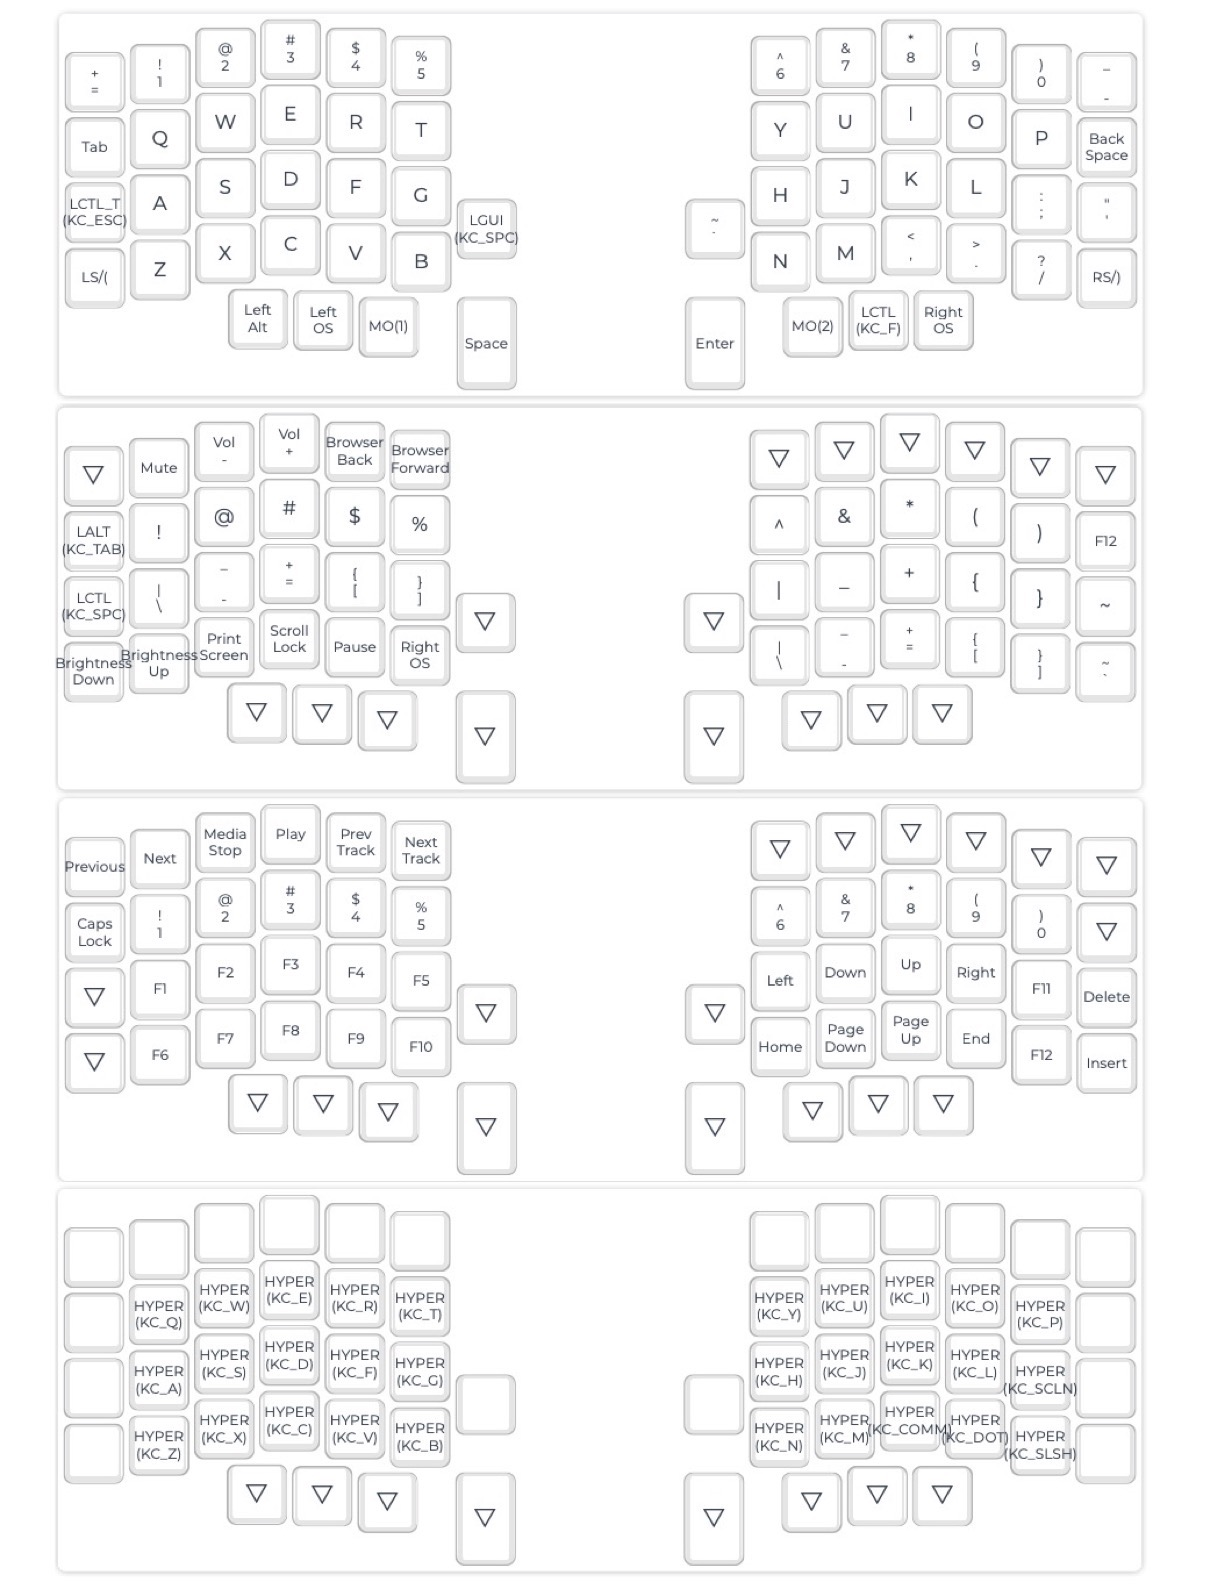
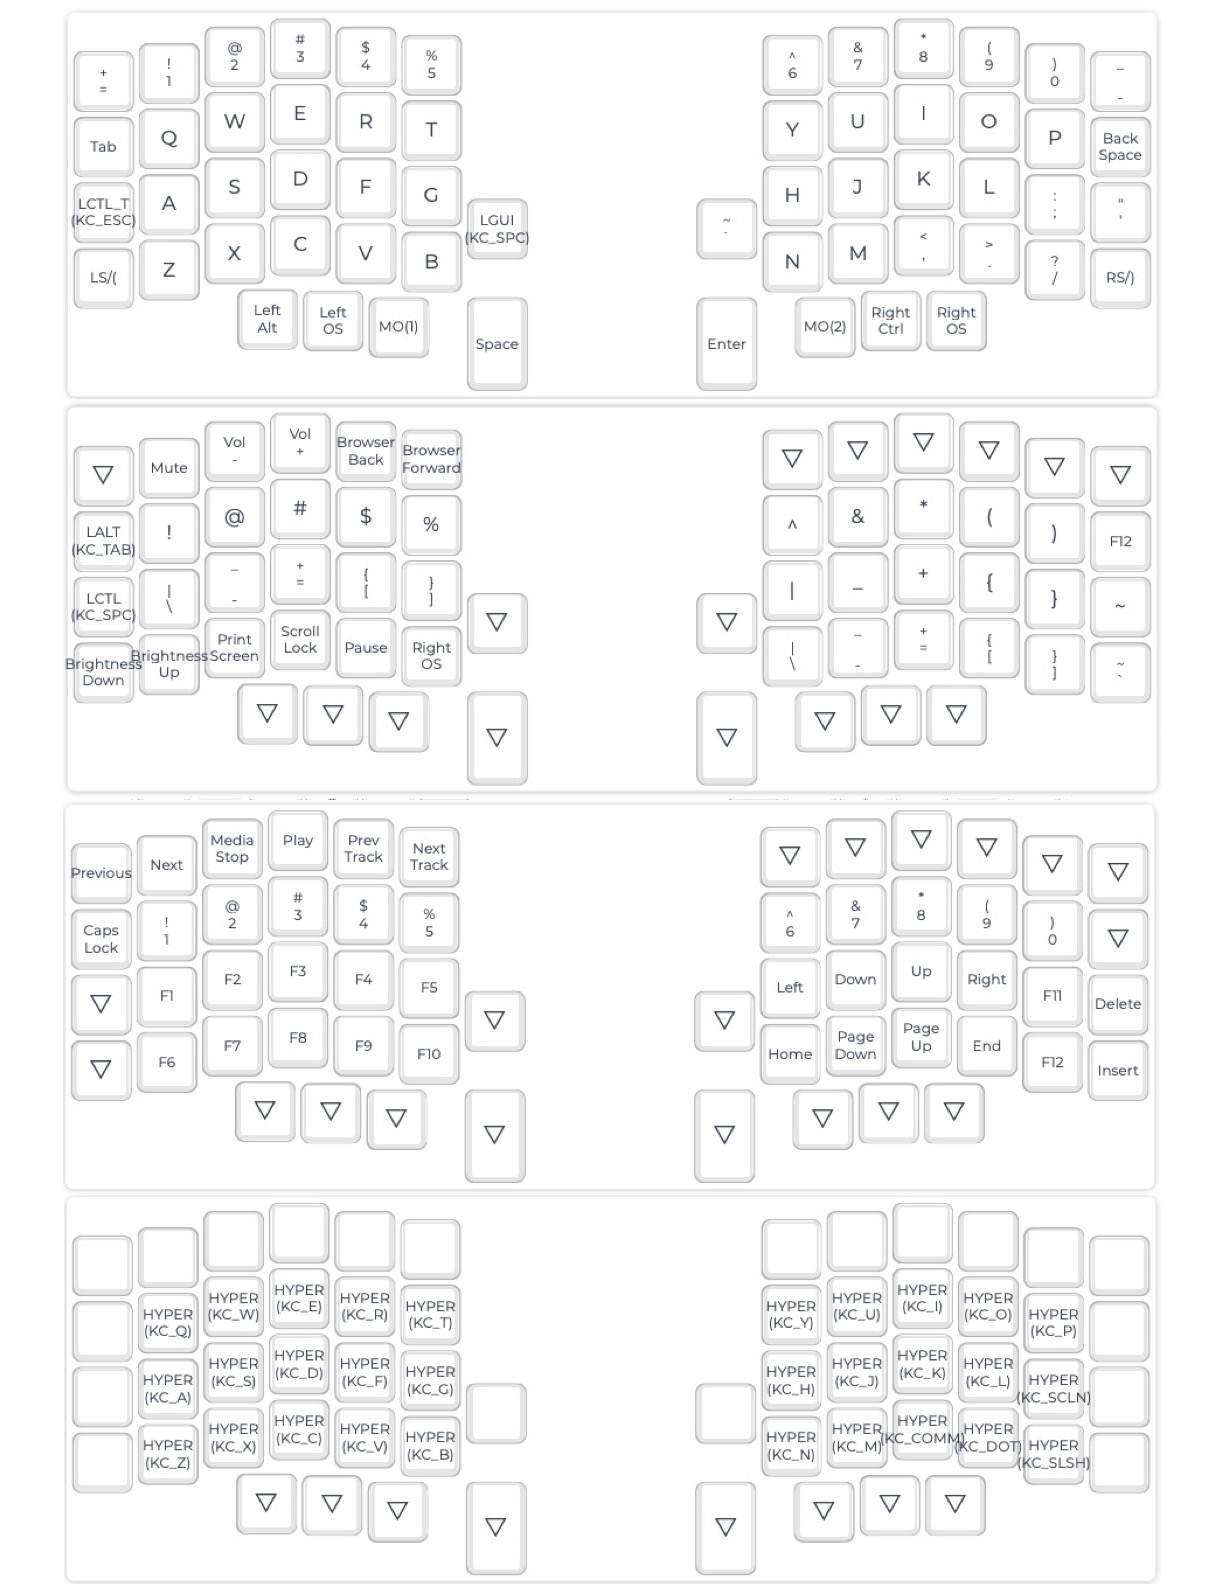
Remove ctrl+f

Changed region(s): [[0.031, 0.2475, 0.9624, 1.0], [0.031, 0.0, 0.4346, 0.2475], [0.5588, 0.0, 0.9624, 0.2475]]

diff --git a/keymap.c b/keymap.c
@@ -10,7 +10,6 @@ enum layer_number {
 
 #define M_CTESC LCTL_T(KC_ESC)
 #define M_GSPC LGUI(KC_SPC)
-#define M_CF LCTL(KC_F)
 #define M_ATAB LALT(KC_TAB)
 #define M_CSPC LCTL(KC_SPC)
 #define LY_LWR MO(_LOWER)
@@ -75,7 +74,7 @@ const uint16_t PROGMEM keymaps[][MATRIX_ROWS][MATRIX_COLS] = {
 	 * |----------+------+------+------+------+------|LGUI+SPC|    |   ~   |------+------+------+------+------+--------|
 	 * |LShift/(  |   Z  |   X  |   C  |   V  |   B  |--------|    |-------|   N  |   M  |   ,  |   .  |   /  |RShift/)|
 	 * `--------------------------------------------/       /      \       \-------------------------------------------'
-	 *                   | LAlt | LGUI |LOWER |   / Space /         \ Enter \  |RAISE |LCTRL+F| RGUI |
+	 *                   | LAlt | LGUI |LOWER |   / Space /         \ Enter \  |RAISE |RCTRL  | RGUI |
 	 *                   |      |      |      | /       /            \       \ |      |       |      |
 	 *                   `----------------------------'              '-------''----------------------'
 	 */
@@ -84,7 +83,7 @@ const uint16_t PROGMEM keymaps[][MATRIX_ROWS][MATRIX_COLS] = {
 		KC_TAB,   KC_Q,    KC_W,    KC_E,    KC_R,    KC_T,                      KC_Y,    KC_U,    KC_I,    KC_O,    KC_P,    KC_BSPC,
 		M_CTESC,  KC_A,    KC_S,    KC_D,    KC_F,    KC_G,                      KC_H,    KC_J,    KC_K,    KC_L,    KC_SCLN, KC_QUOT,
 		KC_LSPO,  KC_Z,    KC_X,    KC_C,    KC_V,    KC_B,    M_GSPC,  KC_GRV,  KC_N,    KC_M,    KC_COMM, KC_DOT,  KC_SLSH, KC_RSPC,
-		                            KC_LALT, KC_LGUI, LY_LWR,  KC_SPC,   KC_ENT, LY_RSE,  M_CF,   KC_RGUI
+		                            KC_LALT, KC_LGUI, LY_LWR,  KC_SPC,   KC_ENT, LY_RSE,  KC_RCTL, KC_RGUI
 	),
 	/* LOWER
 	 * ,----------------------------------------------.                     ,-------------------------------------------.
@@ -96,7 +95,7 @@ const uint16_t PROGMEM keymaps[][MATRIX_ROWS][MATRIX_COLS] = {
 	 * |----------+-------+------+------+------+------|LGUI+SPC|    |   ~   |------+------+------+------+------+--------|
 	 * |Bright-   |Bright+|PRTSCR|SCRLOC|PAUSE |RGUI  |--------|    |-------|   \  |   -  |   =  |   [  |   ]  |   `    |
 	 * `--------------------------------------------/       /      \       \-------------------------------------------'
-	 *                   | LAlt | LGUI |LOWER |   / Space /         \ Enter \  |RAISE |LCTRL+F| RGUI |
+	 *                   | LAlt | LGUI |LOWER |   / Space /         \ Enter \  |RAISE |RCTRL  | RGUI |
 	 *                   |      |      |      | /       /            \       \ |      |       |      |
 	 *                   `----------------------------'              '-------''----------------------'
 	 */
@@ -105,7 +104,7 @@ const uint16_t PROGMEM keymaps[][MATRIX_ROWS][MATRIX_COLS] = {
 		M_ATAB,   KC_EXLM, KC_AT,   KC_HASH, KC_DLR,  KC_PERC,                   KC_CIRC, KC_AMPR, KC_ASTR, KC_LPRN, KC_RPRN, KC_F12, 
 		M_CSPC,   KC_BSLS, KC_MINS, KC_EQL,  KC_LBRC, KC_RBRC,                   KC_PIPE, KC_UNDS, KC_PLUS, KC_LCBR, KC_RCBR, KC_TILD, 
 		KC_BRID,  KC_BRIU, KC_PSCR, KC_SLCK, KC_PAUS, KC_RGUI, KC_TRNS, KC_TRNS, KC_BSLS, KC_MINS, KC_EQL,  KC_LBRC, KC_RBRC, KC_GRV, 
-		                            KC_TRNS, KC_TRNS, KC_TRNS, KC_TRNS, KC_TRNS, KC_TRNS,  KC_TRNS, KC_TRNS
+		                            KC_TRNS, KC_TRNS, KC_TRNS, KC_TRNS, KC_TRNS, KC_TRNS, KC_TRNS, KC_TRNS
 	
 	),
 	/* RAISE
@@ -118,7 +117,7 @@ const uint16_t PROGMEM keymaps[][MATRIX_ROWS][MATRIX_COLS] = {
 	 * |----------+------+------+------+------+------|LGUI+SPC|    |   ~   |------+------+------+------+------+--------|
 	 * |LShift/(  |  F6  |  F7  |  F8  |  F9  | F10  |--------|    |-------| HOME | PGDN | PGUP |  END |  F12 |Insert  |
 	 * `--------------------------------------------/       /      \       \-------------------------------------------'
-	 *                   | LAlt | LGUI |LOWER |   / Space /         \ Enter \  |RAISE |LCTRL+F| RGUI |
+	 *                   | LAlt | LGUI |LOWER |   / Space /         \ Enter \  |RAISE |RCTRL  | RGUI |
 	 *                   |      |      |      | /       /            \       \ |      |       |      |
 	 *                   `----------------------------'              '-------''----------------------'
 	 */
@@ -127,7 +126,7 @@ const uint16_t PROGMEM keymaps[][MATRIX_ROWS][MATRIX_COLS] = {
 		KC_CAPS,  KC_1,    KC_2,    KC_3,    KC_4,    KC_5,                      KC_6,    KC_7,    KC_8,    KC_9,    KC_0,    KC_TRNS, 
 		KC_TRNS,  KC_F1,   KC_F2,   KC_F3,   KC_F4,   KC_F5,                     KC_LEFT, KC_DOWN, KC_UP,   KC_RGHT, KC_F11,  KC_DEL, 
 		KC_TRNS,  KC_F6,   KC_F7,   KC_F8,   KC_F9,   KC_F10,  KC_TRNS, KC_TRNS, KC_HOME, KC_PGDN, KC_PGUP, KC_END,  KC_F12,  KC_INS, 
-		                            KC_TRNS, KC_TRNS, KC_TRNS,  KC_TRNS, KC_TRNS, KC_TRNS, KC_TRNS, KC_TRNS
+		                            KC_TRNS, KC_TRNS, KC_TRNS, KC_TRNS, KC_TRNS, KC_TRNS, KC_TRNS, KC_TRNS
 	),
 	/* RAISE
 	 * ,---------------------------------------------.                     ,-------------------------------------------.
@@ -139,7 +138,7 @@ const uint16_t PROGMEM keymaps[][MATRIX_ROWS][MATRIX_COLS] = {
 	 * |----------+------+------+------+------+------|        |    |       |------+------+------+------+------+--------|
 	 * |          |HYP+Z |HYP+X |HYP+C |HYP+V |HYP+B |--------|    |-------|HYP+N |HYP+M |HYP+, |HYP+. |HYP+/ |        |
 	 * `--------------------------------------------/       /      \       \-------------------------------------------'
-	 *                   | LAlt | LGUI |      |   / Space /         \ Enter \  |      |LCTRL+F| RGUI |
+	 *                   | LAlt | LGUI |      |   / Space /         \ Enter \  |      |RCTRL  | RGUI |
 	 *                   |      |      |      | /       /            \       \ |      |       |      |
 	 *                   `----------------------------'              '-------''----------------------'
 	 */
